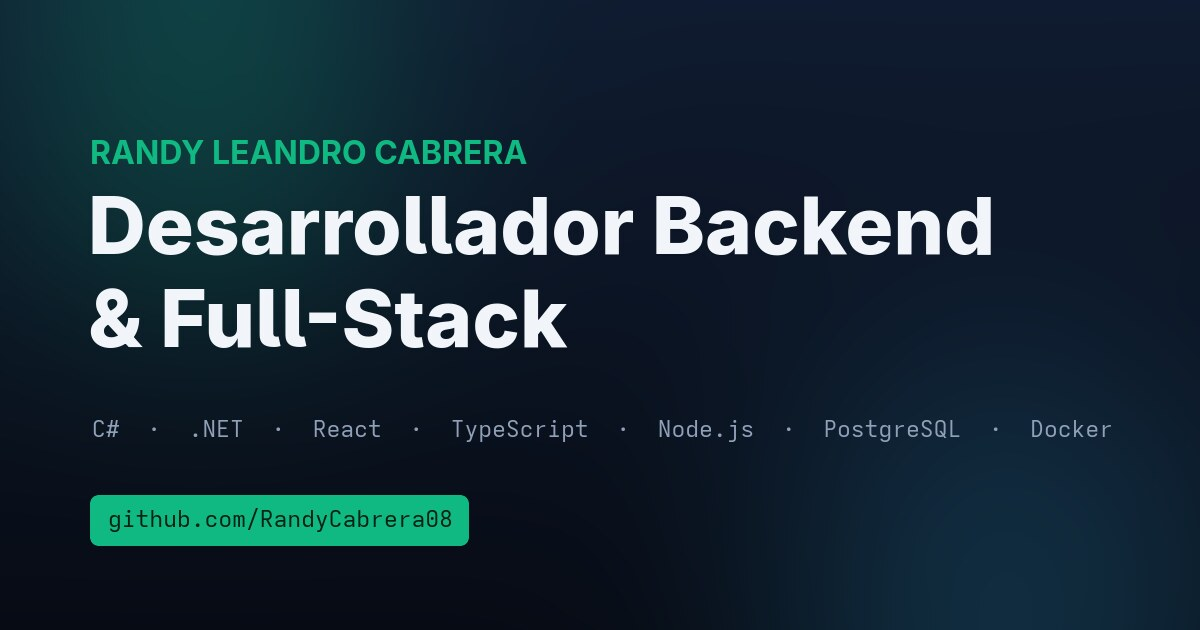
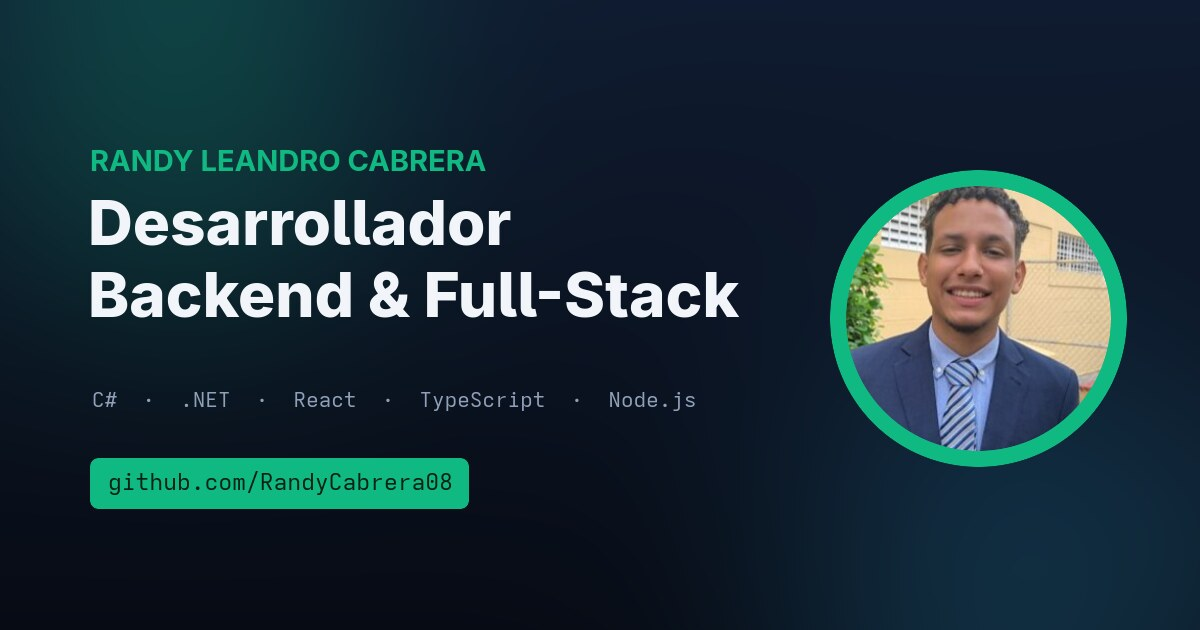
Usar foto de perfil real en el hero y en la previsualización social
La foto original traía quemado el marco #OPENTOWORK de LinkedIn, que chocaba
con el anillo animado del hero. Se recorta a la zona del rostro (250x250 desde
+120+40 del original) para dejar el marco fuera, y se exporta a 256x256 —
suficiente para los 128px del hero en pantallas 2x.

- assets/foto.jpg sustituye al monograma como avatar del hero.
- assets/avatar.svg se conserva como alternativa sin foto, documentada.
- Regenerada assets/og.jpg incluyendo el retrato, ajustando cuerpo y posiciones
  para que titular y stack no invadan el círculo.

diff --git a/index.html b/index.html
@@ -452,8 +452,8 @@
   <div class="hero-content">
     <div class="hero-badge"><div class="badge-dot"></div>Disponible para colaborar</div>
     <div class="hero-avatar-wrap">
-      <!-- Para usar una foto real: reemplaza el src por 'assets/foto.jpg' (cuadrada, min. 400x400) -->
-      <img class="hero-avatar" src="assets/avatar.svg" alt="Randy Cabrera" width="128" height="128"/>
+      <!-- Alternativa sin foto: assets/avatar.svg (monograma) -->
+      <img class="hero-avatar" src="assets/foto.jpg" alt="Randy Leandro Cabrera" width="128" height="128"/>
     </div>
     <h1>Randy <span class="hl">Cabrera</span></h1>
     <div class="hero-sub"><span id="tt"></span><span class="cursor"></span></div>

diff --git a/README.md b/README.md
@@ -40,12 +40,13 @@ Todo el contenido vive en dos arreglos al final de `index.html`:
 
 Para agregar un proyecto, copia un objeto de `PROJECTS`, cámbiale el `id` y añade su imagen a `assets/`.
 
-## Poner una foto real
+## Foto del hero
 
-El hero usa un monograma (`assets/avatar.svg`) porque la cuenta de GitHub no tiene foto de perfil. Para usar una foto:
+El hero usa `assets/foto.jpg` (256×256). Para cambiarla, sustituye ese archivo por otra
+imagen cuadrada; se recorta en círculo, así que conviene que la cara quede centrada.
 
-1. Copia la imagen a `assets/foto.jpg` (cuadrada, mínimo 400×400).
-2. En `index.html`, cambia `src="assets/avatar.svg"` por `src="assets/foto.jpg"`.
+Se incluye también `assets/avatar.svg`, un monograma "RC" como alternativa sin foto:
+basta cambiar el `src` del `<img class="hero-avatar">` en `index.html`.
 
 ## Despliegue
 
